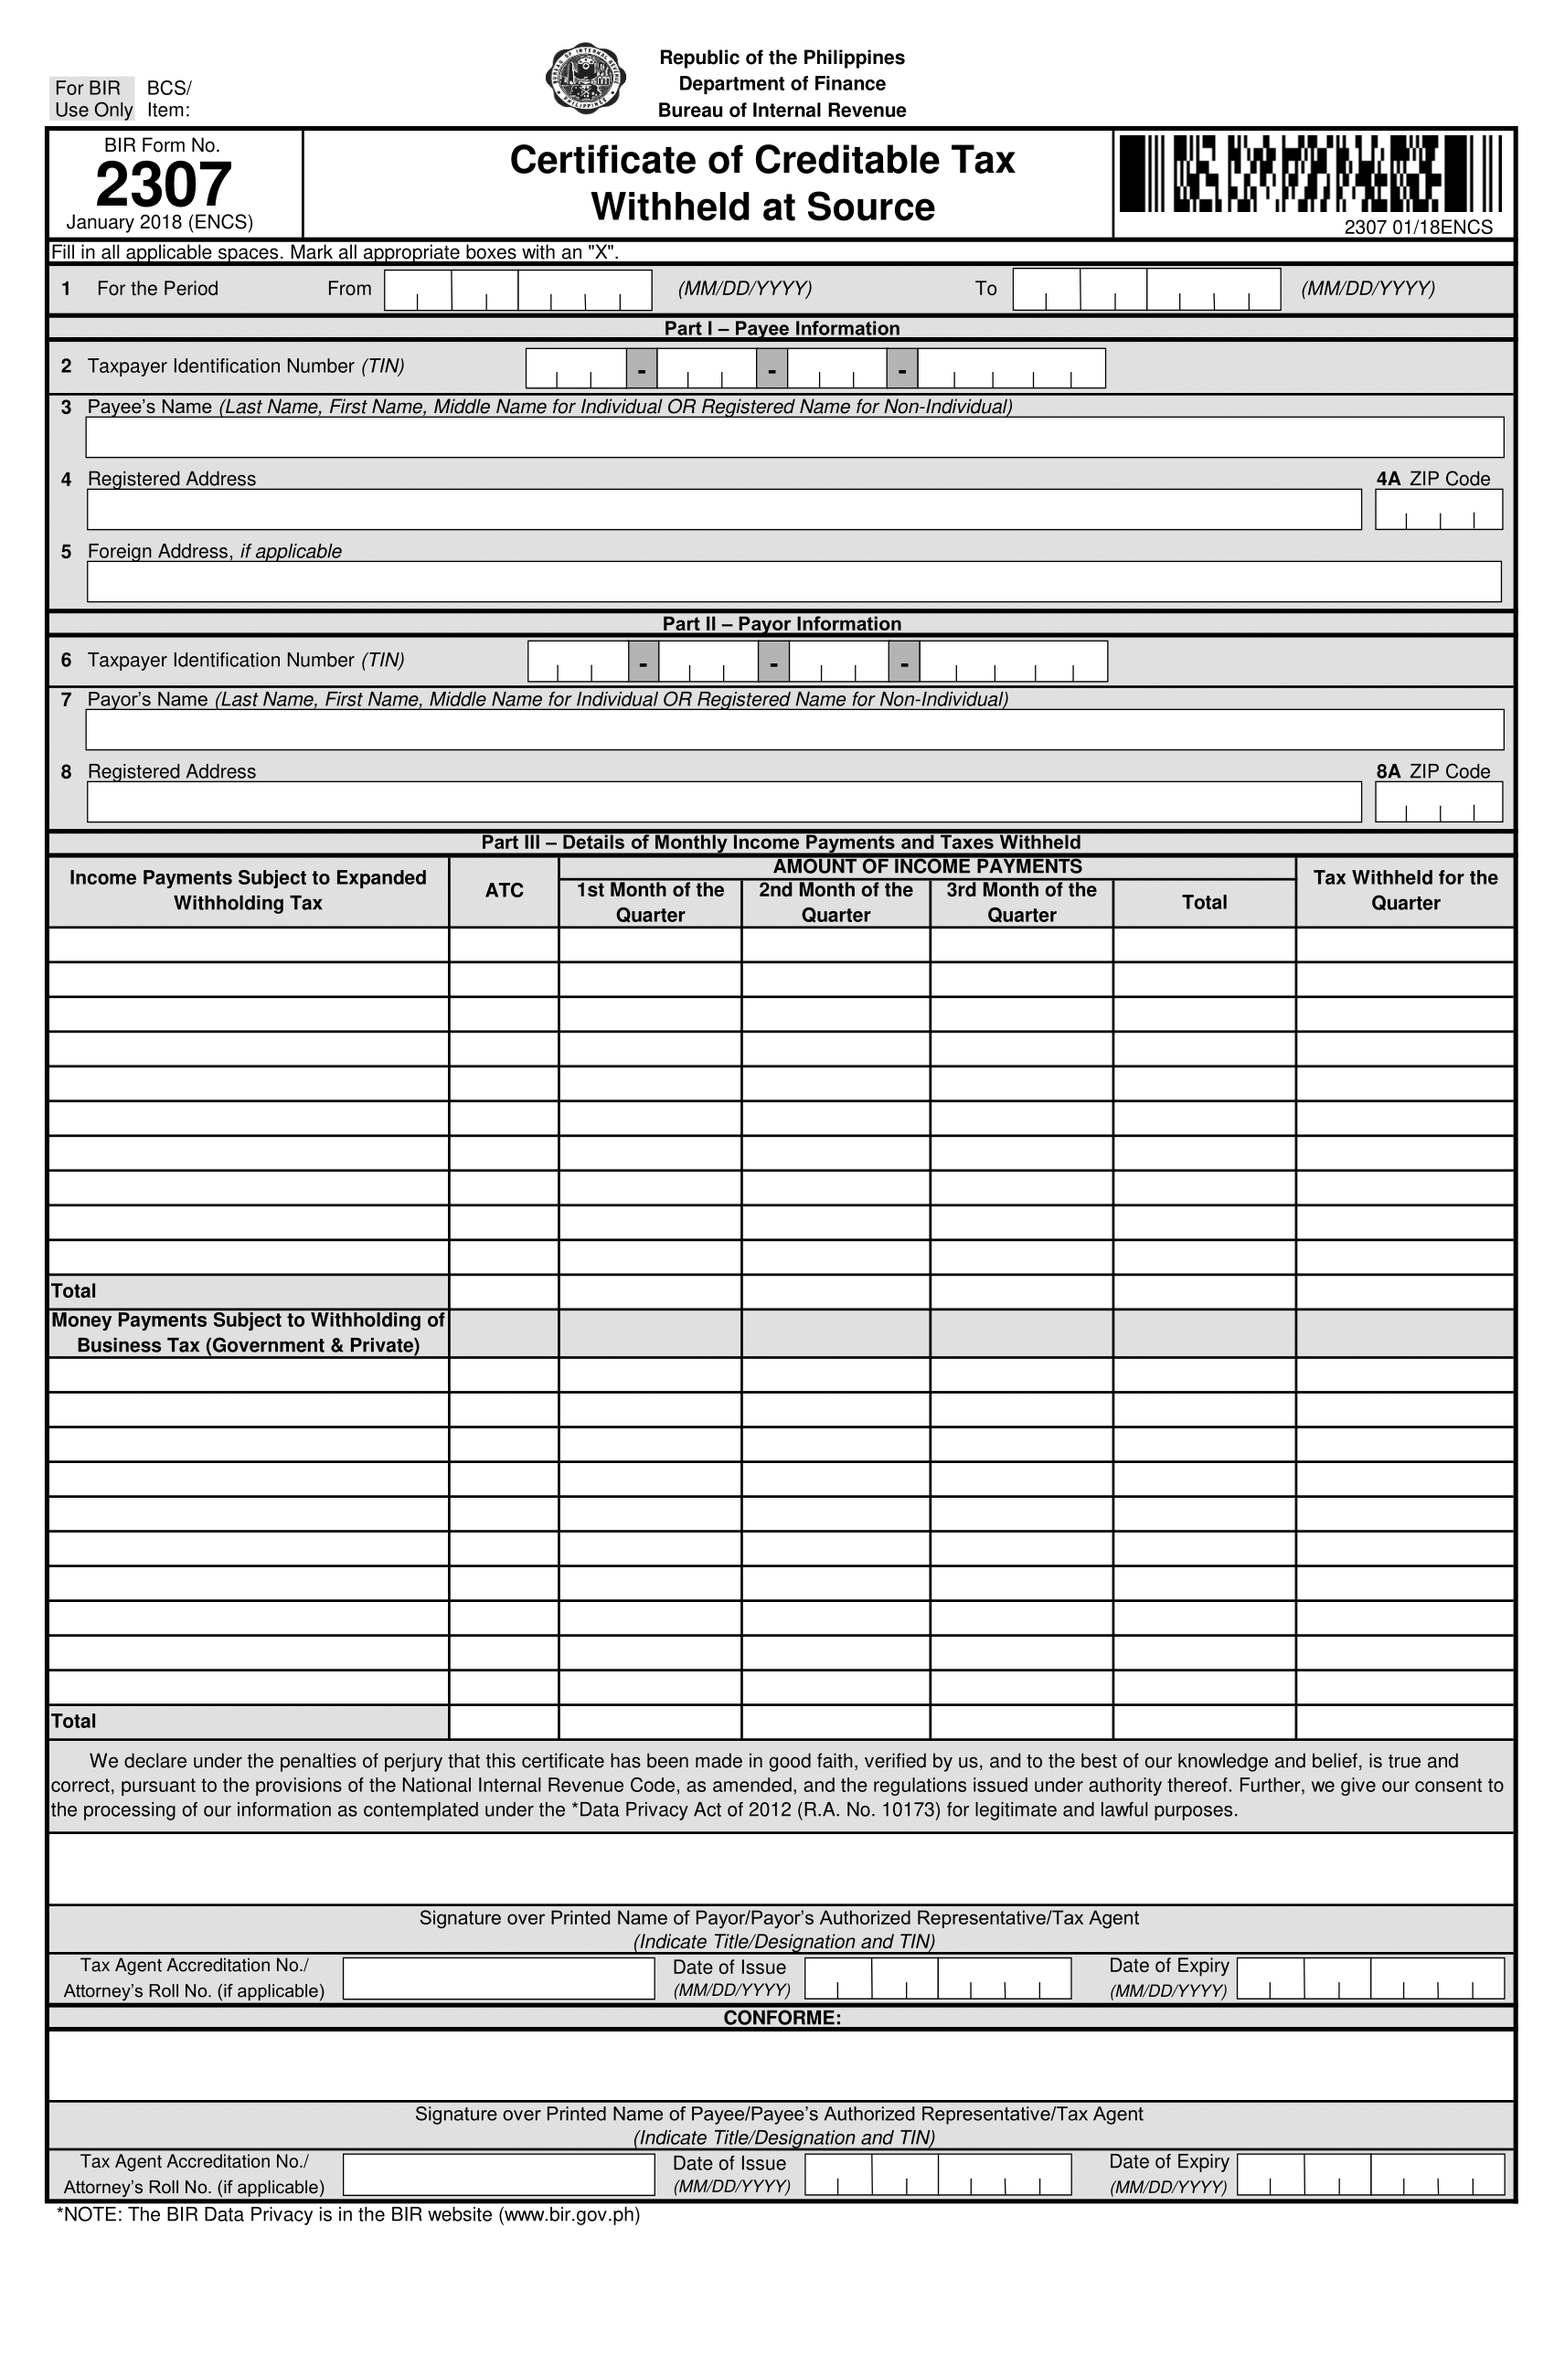
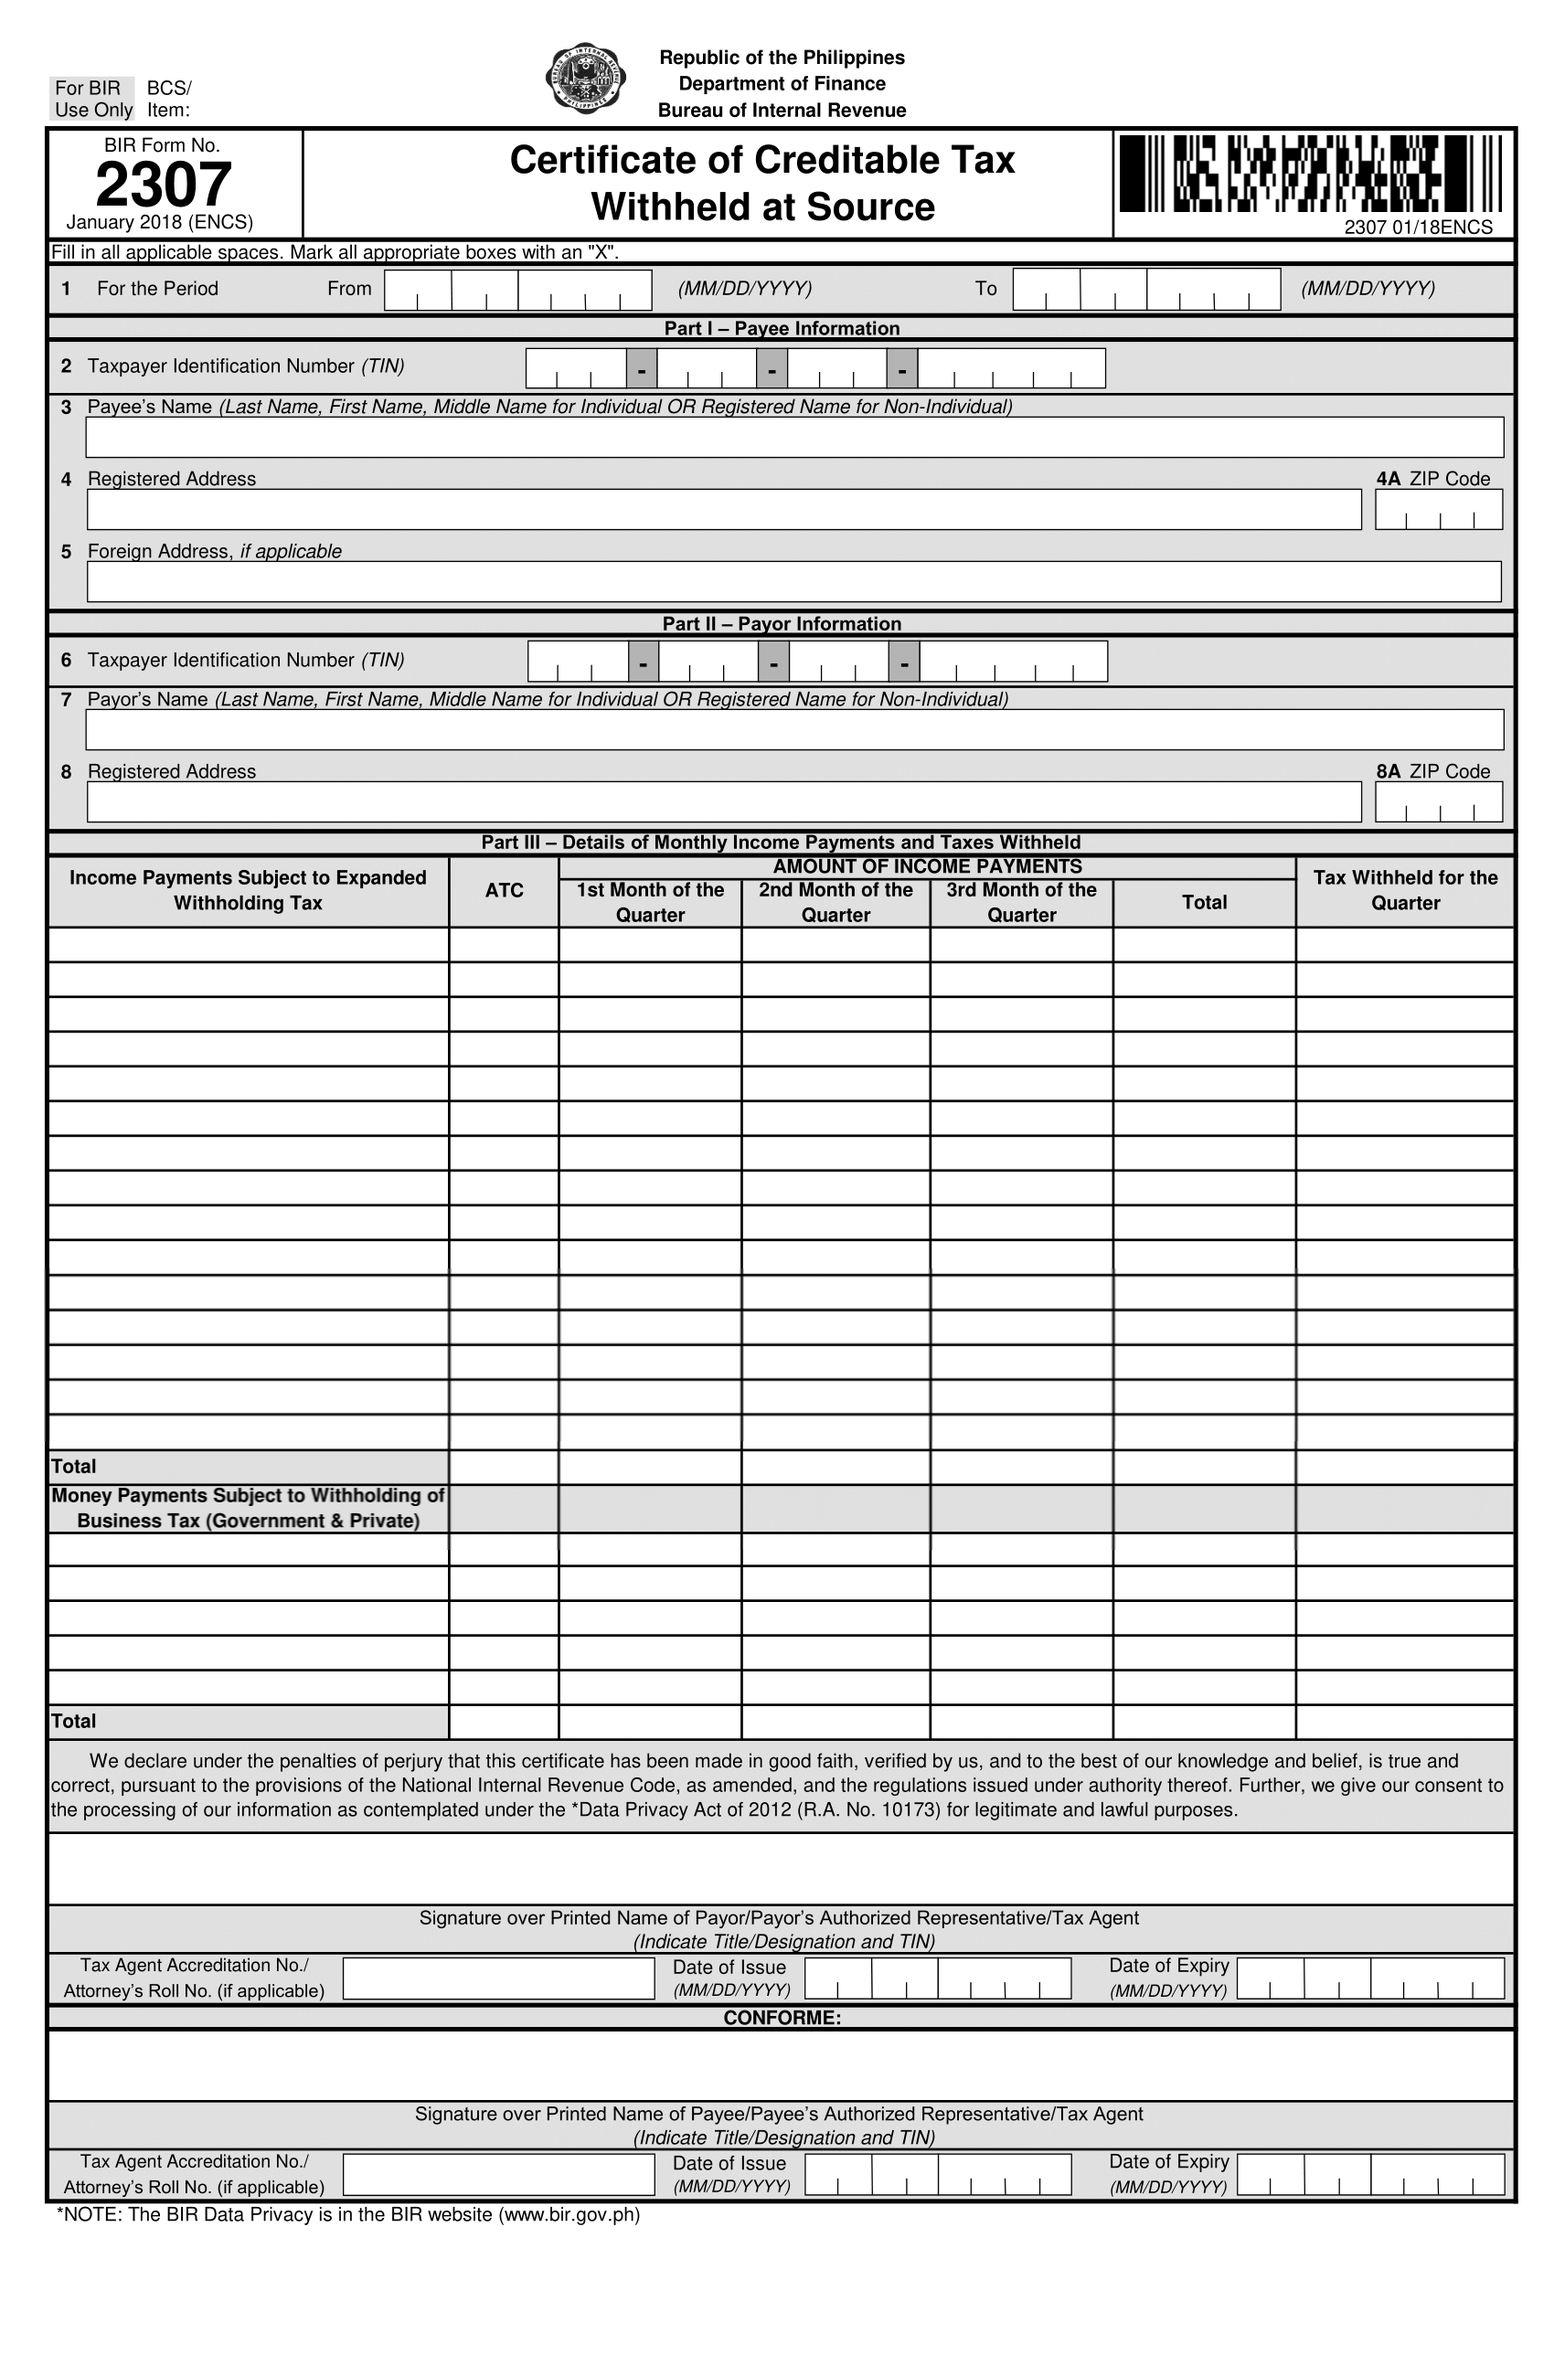
BIR 2307 Version 1.3 - Added Signee Setup and Added More Rows under Income Payment Tables

Changed region(s): [[0.0312, 0.5296, 0.9976, 0.6542]]

diff --git a/bir_module/static/src/js/bir_forms.js b/bir_module/static/src/js/bir_forms.js
@@ -40,6 +40,8 @@ export class Form2307 extends Component {
       filteredPartners: [],
       searchTerm: "",
       checkedIds: new Set(), // Track which records are selected via checkboxes
+      signeeList: [],
+      selectedSignee: 0,
     });
 
     onMounted(async () => {
@@ -50,8 +52,13 @@ export class Form2307 extends Component {
   }
 
   async loadInitialData() {
+    // Load partners
     const data = await this.orm.call("account.move", "fetch_BP", [""]);
     this.state.partnersList = data;
+    
+    // Load signees
+    const signees = await this.orm.call("bir_module.signee_setup", "search_read", [[], ['name', 'tax_id', 'position', 'sequence']]);
+    this.state.signeeList = signees;
     
     const partnerInput = this.rootRef.el.querySelector("#partner_2307");
     if (partnerInput && data.length > 0) {
@@ -63,6 +70,14 @@ export class Form2307 extends Component {
       partnerInput.addEventListener("input", () => this.onPartnerSearch());
       partnerInput.addEventListener("focus", () => this.showPartnerDropdown());
       document.addEventListener("click", (e) => this.handleClickOutside(e));
+      
+      // Set signee with lowest sequence as default if available
+      if (signees.length > 0) {
+        // Sort by sequence and get the first one (lowest sequence)
+        const sortedSignees = signees.sort((a, b) => a.sequence - b.sequence);
+        this.state.selectedSignee = sortedSignees[0].id;
+        this.updateSigneeDropdown();
+      }
       
       await this.loadData();
     }
@@ -96,9 +111,12 @@ export class Form2307 extends Component {
     } else {
       for (let partner of partners) {
         const isSelected = this.state.selectedPartner === partner[0];
-        html += `<div class="bir-partner-option ${isSelected ? 'selected' : ''}" data-id="${partner[0]}" data-name="${partner[1]}">
+        const tags = partner[2] || [];
+        const tagsDisplay = tags.length > 0 ? `<span class="bir-partner-tags">[${tags.join(', ')}]</span>` : '<span class="bir-partner-tags"></span>';
+        html += `<div class="bir-partner-option ${isSelected ? 'selected' : ''}" data-id="${partner[0]}" data-name="${partner[1]}" style="flex-wrap: wrap; align-items: flex-start;">
           <span class="bir-partner-option-name">${partner[1]}</span>
-          <span class="bir-partner-option-id">ID: ${partner[0]}</span>
+          ${tagsDisplay}
+          <span class="bir-partner-option-id" style="flex-basis: 100%; margin-top: 4px;">ID: ${partner[0]}</span>
         </div>`;
       }
     }
@@ -154,6 +172,27 @@ export class Form2307 extends Component {
     }
   }
 
+  updateSigneeDropdown() {
+    const signeeSelect = this.rootRef.el?.querySelector("#signee_2307_select");
+    if (!signeeSelect) return;
+
+    signeeSelect.innerHTML = "";
+    
+    for (let signee of this.state.signeeList) {
+      const option = document.createElement("option");
+      option.value = signee.id;
+      option.textContent = signee.name;
+      if (signee.id === this.state.selectedSignee) {
+        option.selected = true;
+      }
+      signeeSelect.appendChild(option);
+    }
+  }
+
+  onSigneeChange(event) {
+    this.state.selectedSignee = parseInt(event.target.value);
+  }
+
   async onPrint2307() {
     const monthInput = this.rootRef.el.querySelector("#month_2307");
     const current = monthInput ? monthInput.value : this.state.currentMonth;
@@ -163,7 +202,7 @@ export class Form2307 extends Component {
 
     const data = await this.orm.call("account.move", "x_2307_forms", [
       "",
-      { month: current, id: BP, trigger: "print", tranid: "none", search: search, checked_ids: checkedIds },
+      { month: current, id: BP, trigger: "print", tranid: "none", search: search, checked_ids: checkedIds, signee_id: this.state.selectedSignee },
     ]);
     this.action.doAction(data);
   }

diff --git a/bir_module/static/src/css/style.css b/bir_module/static/src/css/style.css
@@ -310,6 +310,18 @@ input[type="month"]:focus {
     color: #333;
 }
 
+.bir-partner-tags {
+    color: #666;
+    font-size: 12px;
+    margin: 0 10px;
+    font-style: italic;
+    display: inline-block;
+    max-width: 200px;
+    overflow: hidden;
+    text-overflow: ellipsis;
+    white-space: nowrap;
+}
+
 .bir-partner-option-id {
     color: #999;
     font-size: 12px;

diff --git a/bir_module/models/models.py b/bir_module/models/models.py
@@ -109,6 +109,7 @@ class bir_reports(models.Model):
         from urllib.parse import urlencode
         search = args.get('search', '')
         checked_ids = args.get('checked_ids', [])
+        signee_id = args.get('signee_id', 0)
         
         # Build URL with search and checked_ids parameters
         url_params = {
@@ -117,7 +118,8 @@ class bir_reports(models.Model):
             'trigger': args['trigger'],
             'tranid': args['tranid'],
             'search': search,
-            'checked_ids': json.dumps(checked_ids) if checked_ids else '[]'
+            'checked_ids': json.dumps(checked_ids) if checked_ids else '[]',
+            'signee_id': signee_id
         }
         
         url = f"/report/pdf/bir_module.form_2307/?{urlencode(url_params)}"
@@ -1004,12 +1006,19 @@ class bir_reports(models.Model):
         return quarter
 
     def fetch_BP(self):
-        query = """ SELECT id, name FROM res_partner WHERE is_company = 'true' AND vat IS NOT NULL AND supplier_rank > 0"""
+        query = """ SELECT id, name FROM res_partner WHERE is_company = 'true' AND vat IS NOT NULL AND supplier_rank > 0 AND active = true"""
 
         self._cr.execute(query)
         val = self._cr.fetchall()
+        
+        # Fetch tags for each partner
+        result = []
+        for partner_id, partner_name in val:
+            partner = self.env['res.partner'].browse(partner_id)
+            tags = [tag.name for tag in partner.category_id]
+            result.append([partner_id, partner_name, tags])
 
-        return val
+        return result
 
     def get_bir_quarter(self, value):
         quarter = 0
@@ -1167,3 +1176,41 @@ class bir_reports(models.Model):
 
     def x_fetch_company_id(self):
         return self.env.company.id
+
+class bir_signee_setup(models.Model):
+    _name = 'bir_module.signee_setup'
+    _description = 'BIR Signee / Authorized Representative Setup'
+    _order = 'sequence asc'
+
+    name = fields.Char(string='Name', required=True)
+    tax_id = fields.Char(string='Tax ID / TIN')
+    position = fields.Char(string='Position', required=True)
+    sequence = fields.Integer(string='Sequence', default=1, help='Sequence to determine default signee (lower number = higher priority)')
+
+    @api.model
+    def get_default_signee(self):
+        """Get the signee with the lowest sequence (highest priority)"""
+        signee = self.search([], order='sequence asc', limit=1)
+        if signee:
+            return {
+                'id': signee.id,
+                'name': signee.name,
+                'tax_id': signee.tax_id or '',
+                'position': signee.position
+            }
+        return {'id': 0, 'name': '', 'tax_id': '', 'position': ''}
+
+    @api.model
+    def get_signee_by_id(self, signee_id):
+        """Get signee details by ID"""
+        if not signee_id:
+            return self.get_default_signee()
+        signee = self.browse(signee_id)
+        if signee.exists():
+            return {
+                'id': signee.id,
+                'name': signee.name,
+                'tax_id': signee.tax_id or '',
+                'position': signee.position
+            }
+        return self.get_default_signee()
